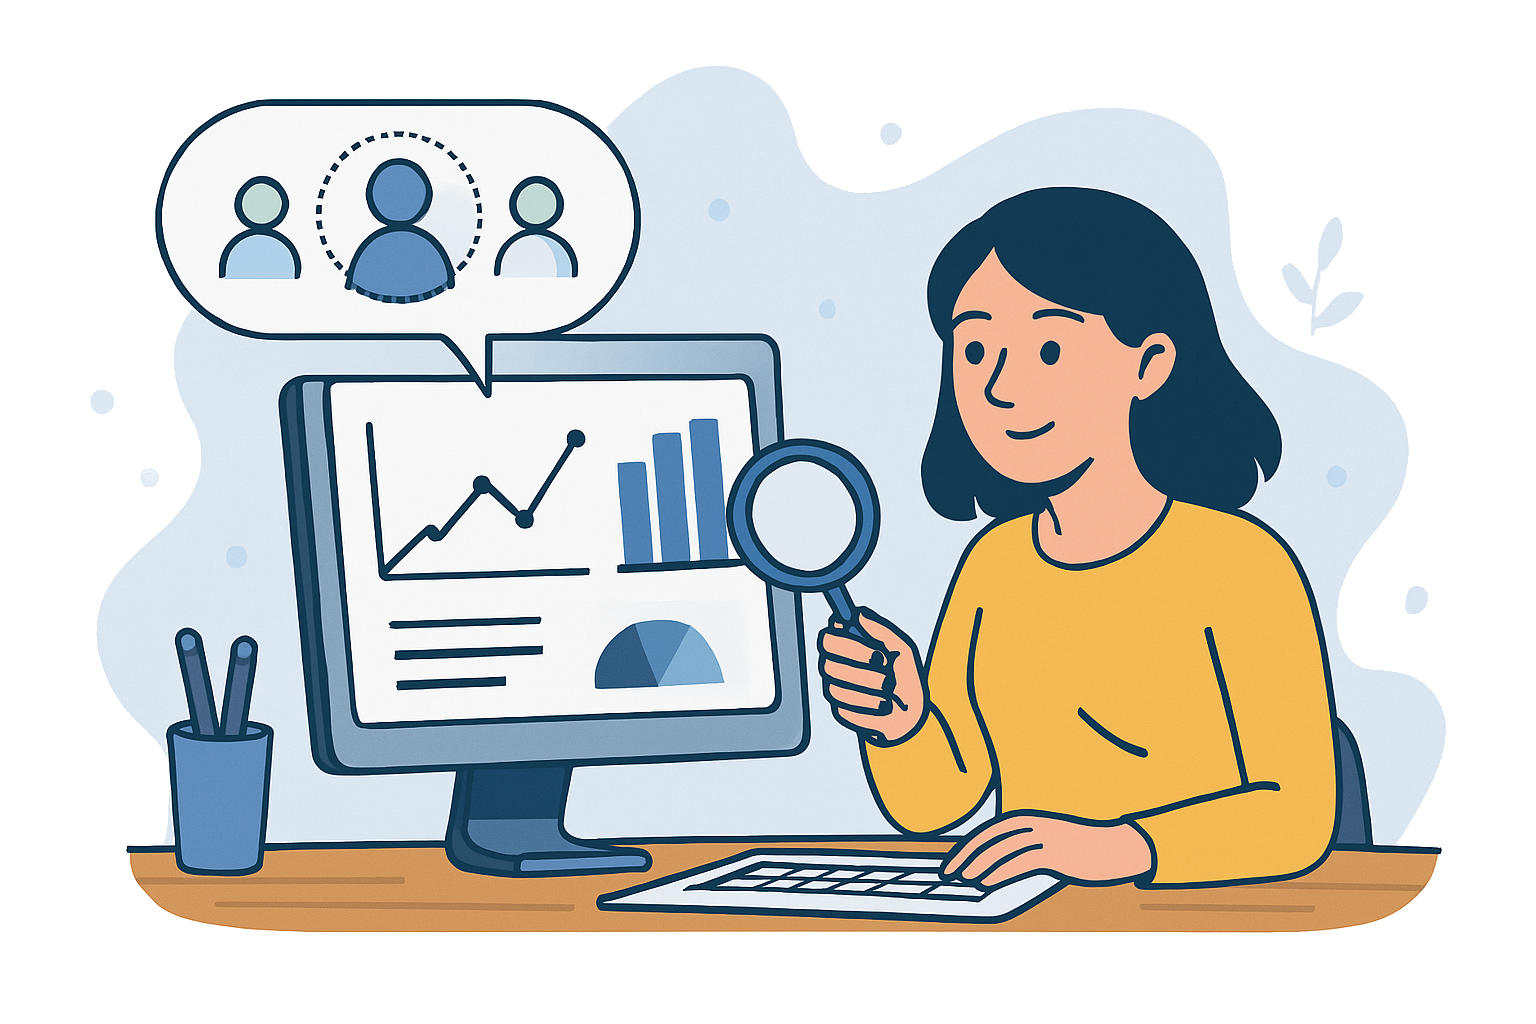
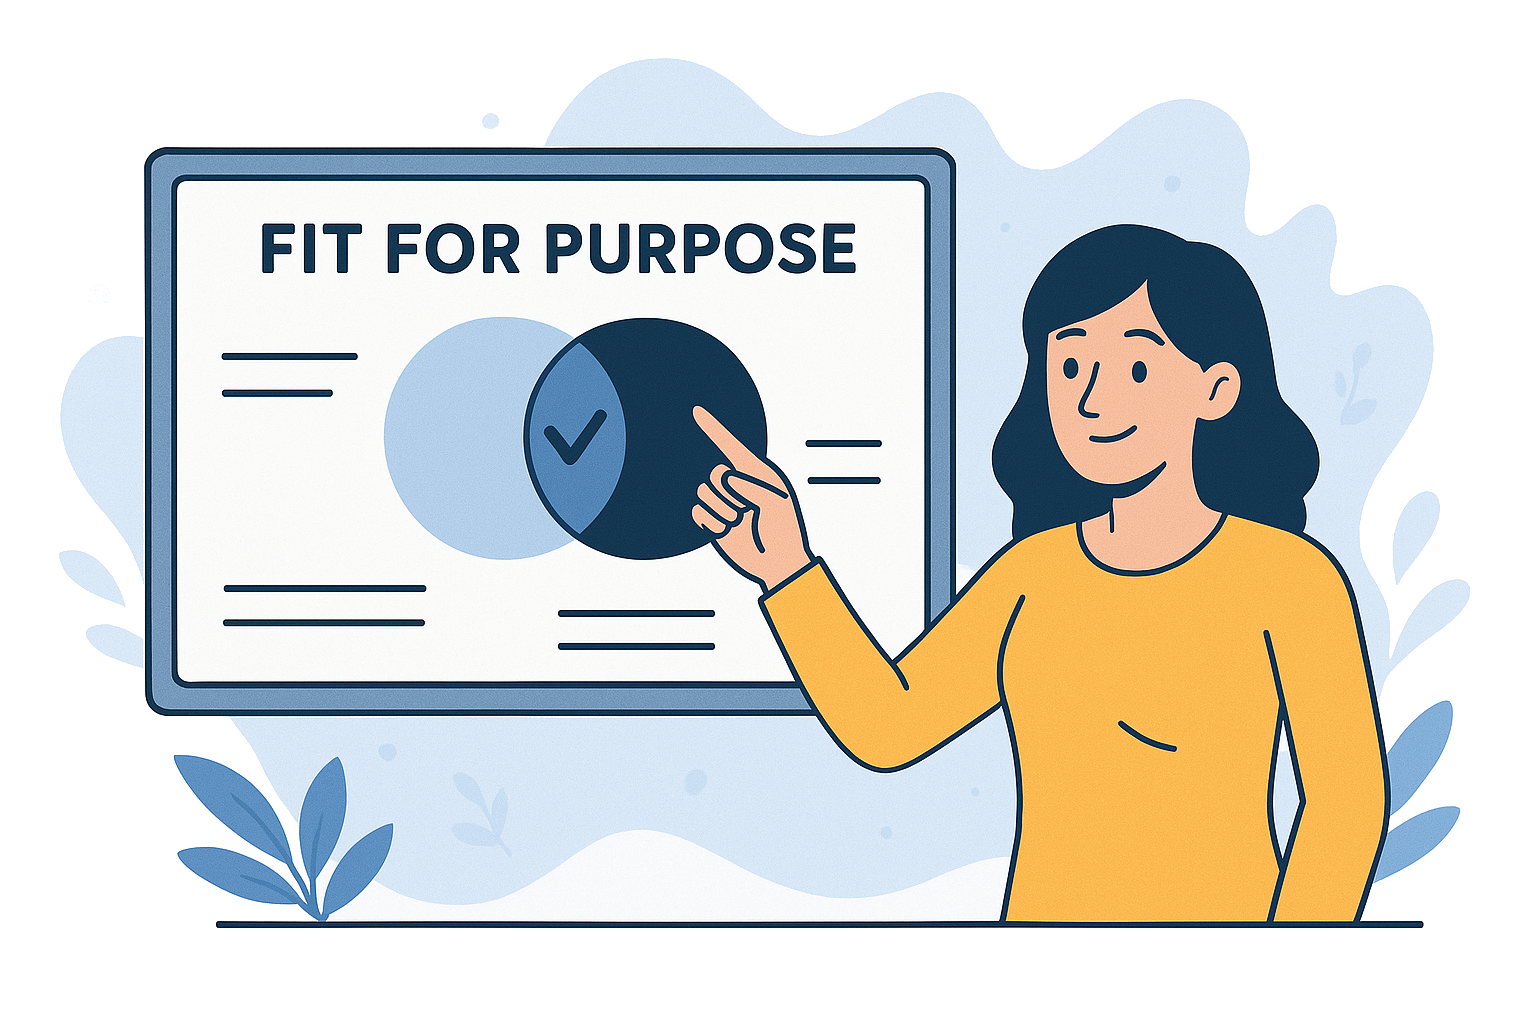
deploy

diff --git a/app/src/app/f4p-guide/page.tsx b/app/src/app/f4p-guide/page.tsx
@@ -1,0 +1,200 @@
+"use client"
+
+import React, { useState, useEffect } from "react";
+import { useTheme } from "next-themes"
+import { texts } from "~/lib/texts"
+import Navbar from "~/components/navbar";
+import Footer from "~/components/footer";
+import Image from "next/image";
+
+export default function F4PGuidePage() {
+    const [language, setLanguage] = useState<"en" | "br">("br")
+    const [mounted, setMounted] = useState(false)
+    const { theme, setTheme } = useTheme()
+
+    useEffect(() => {
+        setMounted(true)
+    }, [])
+
+    return (
+        <div className="flex min-h-screen flex-col">
+            <Navbar
+                language={language}
+                setLanguage={setLanguage}
+                mounted={mounted}
+                theme={theme}
+                setTheme={setTheme}
+                texts={texts}
+            />
+            <main className="bg-gradient-to-b from-sky-50 via-white to-white dark:from-slate-900 dark:via-slate-950 dark:to-slate-950 min-h-screen pb-16">
+                <article className="max-w-3xl mx-auto px-4 py-10">
+                    <header className="bg-white/80 dark:bg-slate-900/80 shadow rounded-xl px-8 py-6 mb-10 border border-sky-100 dark:border-slate-800">
+                        <h1 className="text-3xl md:text-4xl font-bold text-sky-900 dark:text-sky-200 mb-2">
+                            Guia Completo do Método F4P <span className="text-sky-500 dark:text-sky-400">(Fit for Purpose)</span>
+                        </h1>
+                        <div className="flex flex-col md:flex-row md:items-center md:justify-between gap-2 mb-2">
+                            <p className="text-sky-700 dark:text-sky-300 font-medium">
+                                <strong>Tempo de leitura:</strong> 8 minutos &nbsp;|&nbsp; <strong>Nível:</strong> Intermediário
+                            </p>
+                            <p className="text-gray-500 dark:text-gray-400 text-sm">
+                                <span>Publicado em 18/04/2025</span> &nbsp;|&nbsp; <span>Por Projeto Iara</span>
+                            </p>
+                        </div>
+                        <div className="flex flex-wrap gap-2 mt-2">
+                            {["UX Research", "Product Management", "Fit for Purpose", "F4P", "Métricas de Produto"].map(tag => (
+                                <span key={tag} className="bg-sky-100 dark:bg-sky-900 text-sky-800 dark:text-sky-200 px-2 py-1 rounded-full text-xs font-semibold">{tag}</span>
+                            ))}
+                        </div>
+                    </header>
+
+                    <section className="mb-10">
+                        <p className="text-lg text-gray-700 dark:text-gray-200">
+                            Você já se perguntou <em>por que</em> seus clientes escolhem — e permanecem usando — o seu produto? Se a resposta envolver mais palpites do que dados concretos, o <strong>método F4P (Fit for Purpose)</strong> pode ser exatamente a bússola que faltava na sua estratégia. Neste guia, mostramos <strong>o que é, por que importa e, principalmente, como aplicar o F4P</strong> no desenvolvimento de software e na pesquisa com usuários.
+                        </p>
+                    </section>
+
+                    <section className="mb-12">
+                        <h2 className="text-2xl font-semibold text-sky-800 dark:text-sky-200 mb-3">O que é o Método F4P?</h2>
+                        <p className="dark:text-gray-200">
+                            Criado por <strong>David J. Anderson</strong> e <strong>Alexei Zheglov</strong> em 2017, o F4P parte de uma premissa simples: <em>um produto só tem sucesso quando é perfeitamente adequado ao propósito pelo qual o cliente o adotou</em>. Para avaliar essa adequação, o framework considera <strong>quatro dimensões</strong>:
+                        </p>
+                        <ol className="list-decimal ml-6 my-4 space-y-1 dark:text-gray-200">
+                            <li><strong>Fit for Purpose</strong> - Entrega o objetivo central do cliente?</li>
+                            <li><strong>Fit for Use</strong> - É usável, confiável e fácil de utilizar?</li>
+                            <li><strong>Fit for the World</strong> - Continua relevante em um contexto de mercado em constante mudança?</li>
+                            <li><strong>Fit for Perceived Value</strong> - Vale o preço e o esforço investidos segundo a percepção do cliente?</li>
+                        </ol>
+                        <p className="dark:text-gray-200">
+                            Ao trazer o <em>“porquê”</em> para o centro das decisões de produto, o F4P ajuda times de UX e Produto a <strong>segmentarem usuários por motivação</strong> e <strong>medirem métricas que realmente importam</strong>.
+                        </p>
+                    </section>
+
+                    <section className="mb-12">
+                        <h2 className="text-2xl font-semibold text-sky-800 dark:text-sky-200 mb-3">Por que usar o F4P em Desenvolvimento de Software e UX?</h2>
+                        <div className="overflow-x-auto rounded-xl border border-sky-100 dark:border-slate-800 bg-white/70 dark:bg-slate-900/70 shadow mb-4">
+                            <table className="min-w-full text-sm text-left">
+                                <thead>
+                                    <tr className="bg-sky-50 dark:bg-slate-800">
+                                        <th className="py-2 px-4 font-semibold text-sky-900 dark:text-sky-200">Benefício</th>
+                                        <th className="py-2 px-4 font-semibold text-sky-900 dark:text-sky-200">Impacto</th>
+                                        <th className="py-2 px-4 font-semibold text-sky-900 dark:text-sky-200">Como o F4P ajuda</th>
+                                    </tr>
+                                </thead>
+                                <tbody>
+                                    <tr className="dark:bg-slate-900/40">
+                                        <td className="py-2 px-4"><strong>Redução de desperdício</strong></td>
+                                        <td className="py-2 px-4">Menos features inúteis, backlog mais enxuto</td>
+                                        <td className="py-2 px-4">Segmenta por propósito → prioriza o que gera valor real</td>
+                                    </tr>
+                                    <tr className="bg-sky-50/40 dark:bg-slate-800/40">
+                                        <td className="py-2 px-4"><strong>Métricas orientadas ao cliente</strong></td>
+                                        <td className="py-2 px-4">KPIs que espelham satisfação, não “vaidade”</td>
+                                        <td className="py-2 px-4">Converte critérios de adequação em métricas rastreáveis</td>
+                                    </tr>
+                                    <tr className="dark:bg-slate-900/40">
+                                        <td className="py-2 px-4"><strong>Descoberta de novos segmentos</strong></td>
+                                        <td className="py-2 px-4">Abre oportunidades de novos produtos ou planos</td>
+                                        <td className="py-2 px-4">Analisa padrões de propósito nos dados do F4P Card</td>
+                                    </tr>
+                                    <tr className="bg-sky-50/40 dark:bg-slate-800/40">
+                                        <td className="py-2 px-4"><strong>Alinhamento estratégico</strong></td>
+                                        <td className="py-2 px-4">Roadmap guiado por objetivos claros</td>
+                                        <td className="py-2 px-4">Ciclo contínuo de feedback → ações de melhoria</td>
+                                    </tr>
+                                </tbody>
+                            </table>
+                        </div>
+                    </section>
+
+                    <section className="mb-12">
+                        <h2 className="text-2xl font-semibold text-sky-800 dark:text-sky-200 mb-3">Passo a passo para aplicar o F4P</h2>
+                        <h3 className="text-lg font-semibold text-sky-700 dark:text-sky-300 mt-6 mb-2">1. Colete feedback com o <strong>F4P Card</strong></h3>
+                        <p className="dark:text-gray-200">
+                            Envie um questionário curto (in-app, e-mail ou entrevista) contendo <strong>três perguntas</strong>:
+                        </p>
+                        <ol className="list-decimal ml-6 my-3 space-y-1 dark:text-gray-200">
+                            <li><em>Quais foram até 3 motivos para você escolher nosso produto?</em></li>
+                            <li><em>De 0 a 5, quanto cada motivo foi atendido?</em></li>
+                            <li><em>Por que você deu essa nota?</em></li>
+                        </ol>
+                        <p className="dark:text-gray-200">
+                            Limitar a <strong>três razões</strong> força o cliente a focar no que realmente importa.
+                        </p>
+                        <div className="bg-sky-50 dark:bg-slate-800 border-l-4 border-sky-400 dark:border-sky-600 rounded-r px-5 py-4 my-6 text-sm shadow dark:text-gray-200">
+                            <b>Exemplo de F4P Card (SaaS de gestão):</b><br />
+                            1. Escolhi o produto porque: (a) Facilidade de uso (b) Preço acessível (c) Integração com ERP.<br />
+                            2. Notas: Uso - 5 · Preço - 4 · Integração - 2<br />
+                            3. Explicação: Interface muito intuitiva, preço justo, mas integração deu erros.
+                        </div>
+
+                        <h3 className="text-lg font-semibold text-sky-700 dark:text-sky-300 mt-8 mb-2">2. Construa o <strong>Fitness Box Score</strong></h3>
+                        <p className="dark:text-gray-200">
+                            Tabule as respostas e visualize quantos propósitos receberam notas altas (4-5), médias (3) ou baixas (0-2). Isso revela rapidamente <strong>onde o produto está (ou não) <em>fit for purpose</em></strong>.
+                        </p>
+                        <pre className="bg-gray-50 dark:bg-slate-900 border border-sky-100 dark:border-slate-800 rounded-lg p-4 my-4 text-xs overflow-x-auto dark:text-gray-200">
+                            {`Fitness Box Score - Release 24.03
+┌─────────────┬────────┬───────┬───────┐
+│ Propósitos  │  4-5   │   3   │  0-2  │
+├─────────────┼────────┼───────┼───────┤
+│ 29          │  62%   │  28%  │  10%  │
+└─────────────┴────────┴───────┴───────┘`}
+                        </pre>
+
+                        <h3 className="text-lg font-semibold text-sky-700 dark:text-sky-300 mt-8 mb-2">3. Identifique <strong>segmentos por propósito</strong></h3>
+                        <p className="dark:text-gray-200">
+                            Agrupe respostas semelhantes. Você pode descobrir, por exemplo:
+                        </p>
+                        <ul className="list-disc ml-6 my-3 space-y-1 dark:text-gray-200">
+                            <li><strong>Segmento Casual</strong> - busca rapidez e preço baixo, insatisfeito com velocidade.</li>
+                            <li><strong>Segmento Pro</strong> - precisa de integrações robustas e suporte, satisfeito nos dois quesitos.</li>
+                        </ul>
+                        <p className="dark:text-gray-200">
+                            Decida <strong>quais segmentos priorizar</strong> ou ajustar na próxima iteração.
+                        </p>
+
+                        <h3 className="text-lg font-semibold text-sky-700 dark:text-sky-300 mt-8 mb-2">4. Defina métricas e feche o ciclo de melhoria</h3>
+                        <p className="dark:text-gray-200">
+                            Transforme os critérios em <strong>KPIs rastreáveis</strong> (por exemplo, <em>tempo de resposta da API &lt; 300 ms</em>, <em>SLA de 99,9%</em>). Acompanhe-os release a release e <strong>refaça o F4P Card</strong> periodicamente.
+                        </p>
+                        <div className="my-8 flex justify-center">
+                            <Image src="/images/ciclo-f4p.svg" alt="Ciclo F4P" width={600} height={300} className="rounded-xl border border-sky-100 dark:border-slate-800 shadow" />
+                        </div>
+                    </section>
+
+                    <section className="mb-12">
+                        <h2 className="text-2xl font-semibold text-sky-800 dark:text-sky-200 mb-3">Melhores práticas e dicas rápidas</h2>
+                        <ul className="list-disc ml-6 my-3 space-y-2 dark:text-gray-200">
+                            <li><strong>Integre ao seu fluxo ágil</strong>: adicione o envio do F4P Card como parte da “Definition of Done” de features críticas.</li>
+                            <li><strong>Combine métodos</strong>: use testes de usabilidade para encontrar problemas de interação e o F4P para saber se a solução cobre o objetivo macro.</li>
+                            <li><strong>Evite métricas de vaidade</strong>: se não reflete valor ao usuário, não deveria ser KPI.</li>
+                            <li><strong>Documente aprendizados</strong>: converta segmentos em personas orientadas a objetivos, inspiradas em <em>Goal-Directed Design</em> de Alan Cooper.</li>
+                        </ul>
+                    </section>
+
+                    <section>
+                        <h2 className="text-2xl font-semibold text-sky-800 dark:text-sky-200 mb-3">Conclusão</h2>
+                        <p className="dark:text-gray-200">
+                            O F4P não substitui os métodos clássicos de UX Research — ele <strong>completa o arsenal</strong> ao responder a pergunta que mais interessa: <em>“Estamos entregando o que o cliente realmente quer?”</em>. Ao coletar <strong>propósitos, notas e justificativas</strong> num processo leve e recorrente, você:
+                        </p>
+                        <ol className="list-decimal ml-6 my-3 space-y-1 dark:text-gray-200">
+                            <li><strong>Alinha produto, UX e negócio</strong> na mesma métrica de sucesso.</li>
+                            <li><strong>Prioriza features</strong> que movem agulhas de satisfação.</li>
+                            <li><strong>Aumenta retenção</strong> ao servir segmentos mais valiosos.</li>
+                        </ol>
+                        <p className="dark:text-gray-200">
+                            Pronto para testar o F4P? Comece criando seu primeiro F4P Card e descubra <strong>por que</strong> seus clientes ficam — ou desistem — do seu produto.
+                        </p>
+                        <blockquote className="border-l-4 border-sky-400 dark:border-sky-600 bg-sky-50/60 dark:bg-slate-800/60 rounded-r px-5 py-4 my-6 text-sky-900 dark:text-sky-200">
+                            <strong>⚡ Dica final</strong>: adote o mantra <em>“No propósito, sem feature”</em>. Se não há propósito claro, talvez valha reavaliar a iniciativa.
+                        </blockquote>
+                    </section>
+                </article>
+            </main>
+            <Footer
+                language={language}
+                texts={texts}
+            />
+        </div>
+    );
+}
+

diff --git a/app/src/components/footer.tsx b/app/src/components/footer.tsx
@@ -84,7 +84,7 @@ export default function IaraNavbar({
                                 </Link>
                             </li>
                             <li>
-                                <Link href="#" className="text-muted-foreground hover:text-foreground">
+                                <Link href="/f4p-guide" className="text-muted-foreground hover:text-foreground">
                                     {t.footer.f4pGuide}
                                 </Link>
                             </li>
@@ -107,7 +107,7 @@ export default function IaraNavbar({
                                 <span className="text-muted-foreground">{t.footer.email}</span>
                             </li>
                             <li className="flex items-start gap-2">
-                                <MapPin className="lg:w-9 lg:h-9 md:h-7 md:w-7 sm:w-7 ml-1 text-muted-foreground" />
+                                <MapPin className="h-5 w-8 text-muted-foreground" />
                                 <span className="text-muted-foreground">{t.footer.address}</span>
                             </li>
                         </ul>

diff --git a/deploy.md b/deploy.md
@@ -1,3 +1,4 @@
+2025-04-12 #1 - SEO / Robots
 2025-04-17 #1 - Careers Page
 2025-04-15 #1
 2025-04-13 #2
